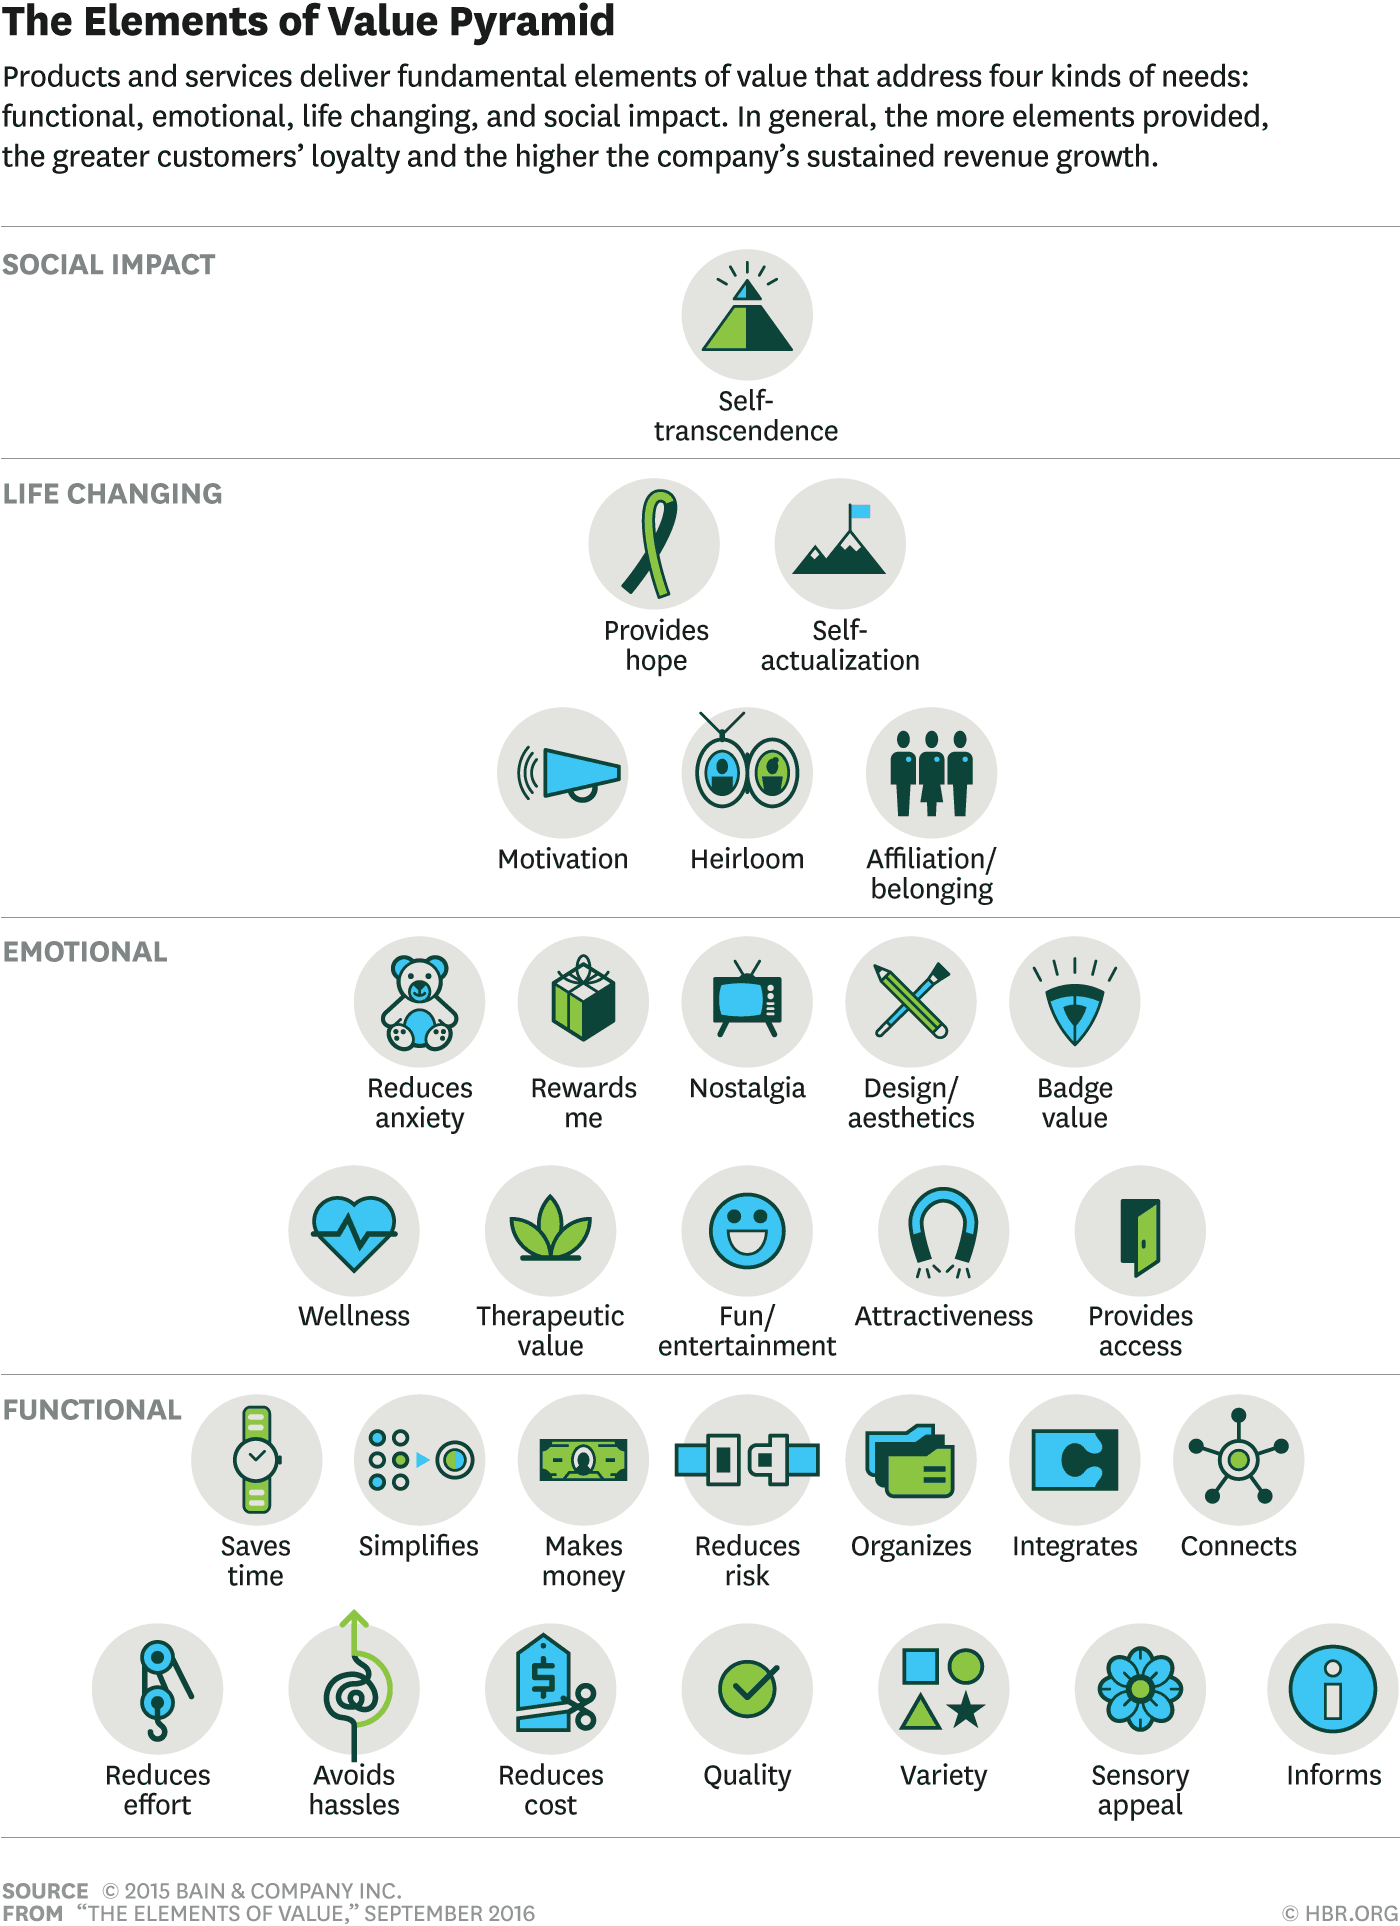
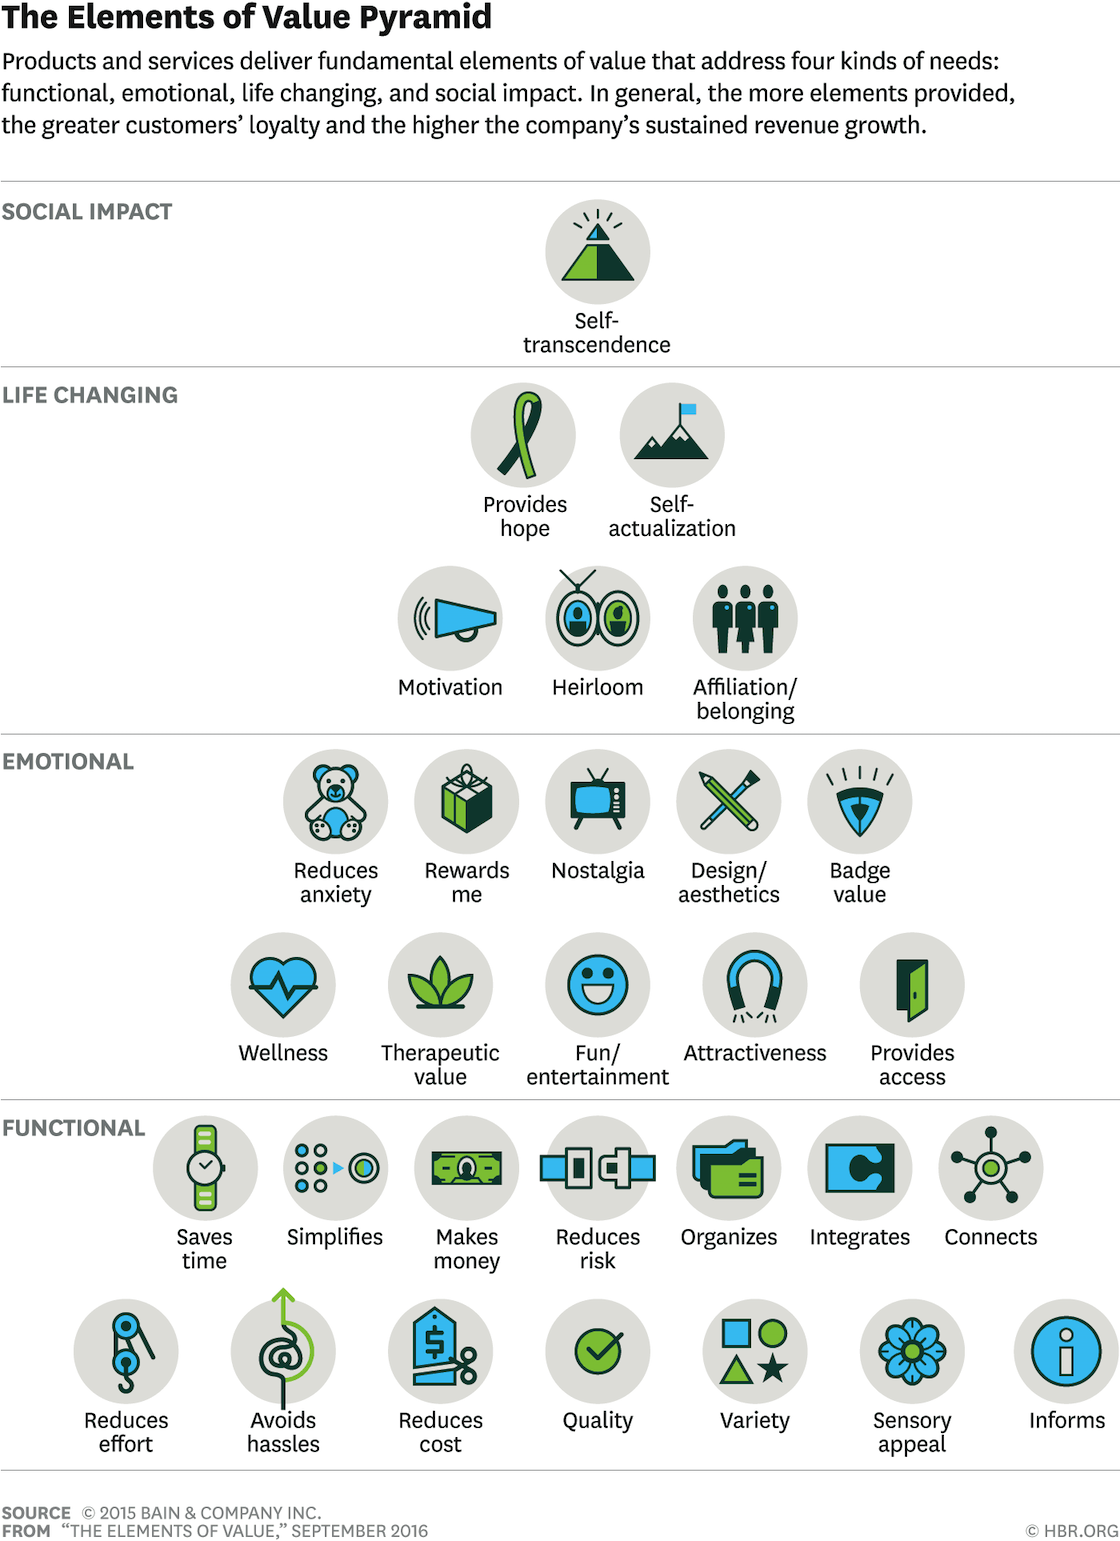
Updated pages

diff --git a/retention.md b/retention.md
@@ -6,56 +6,54 @@ permalink: /retention/
 
 ## 01. Frameworks
 
-**The Basics of Growth — User Acquisition, Engagement & Retention**
+**The Adjacent User Theory.**
 
-Podcast series (+ transcript): [Part 1](https://a16z.com/2018/08/08/growth-user-acquisition/) | [Part 2](https://a16z.com/2018/08/09/growth-engagement-retention/)
+[Article](https://andrewchen.co/the-adjacent-user-theory/)
 
-Comprehensive overview of the key concepts and dynamics to consider when crafting and executing a growth strategy.
+> When I joined Instagram in 2016, the product had over 400 million users, but the growth rate had slowed. We were growing linearly, not exponentially. [...] Over the next 3 years, the growth team and I discovered why Instagram had slowed, developed a methodology to diagnose our issues, and solved a series of problems that reignited growth and helped us get to over a billion users by the time I left.
 
-**Growth for Startups.**
+> Our success was anchored on what I now call *The Adjacent User Theory*. *The Adjacent Users* are aware of a product and possibly tried using the it, but are not able to successfully become an engaged user. This is typically because the current product positioning or experience has too many barriers to adoption for them.
 
-[Video](https://youtu.be/6lY9CYIY4pQ)
+**Hierarchy of Engagement, Expanded.**
 
-**Growth Hacking for Startups.**
+[Article](https://medium.com/@sarahtavel/the-hierarchy-of-engagement-expanded-648329d60804)
 
-[Slide deck](https://andrewchen.co/investor-metrics-deck/)
+**The Customer Centricity Playbook.**
 
-**Growth Loops are the New Funnels.**
+[Book](https://wsp.wharton.upenn.edu/book/customer-centricity-playbook/), [Excerpt](https://executiveeducation.wharton.upenn.edu/wp-content/uploads/2019/01/Customer-Centricity-Playbook-Excerpt-2019.pdf), [Video](https://youtu.be/0iLQCNYdNb4)
 
-[Article](https://www.reforge.com/blog/growth-loops)
+&nbsp;
+## 02. Metrics
 
-A year ago, I came across an article that introduces the concept of growth loops. Reading it shifted how I think about growth.
+**Startup Lab Workshop: Cohort analysis.**
 
-> The biggest thing we've learned is that the funnel framework is too micro of a view in order to answer “How does your product grow?” It helps explain a specific step within a Growth Loop, but misses the larger picture of the loop itself.
+[Video](https://youtu.be/NyhVdGmnh0I), [Slide deck](https://docs.google.com/presentation/d/1oWSKNZgtXCrc1dVEXhyzeJtX4AmBGQPGZi-u20BA5sA/edit#slide=id.p)
 
-**Phil Libin  shares his state machine that answers all growth questions.**
+**DAU/MAU is an Important Metric to Measure Engagement, but Here’s Where it Fails.**
 
-[Podcast](https://thisweekinstartups.com/e994-all-turtles-ceo-phil-libin-shares-his-state-machine-that-answers-all-growth-questions-future-of-early-stage-vc-w-pete-flint-nfx-rebecca-lynn-canvas-ventures-dave-samuel-freestyle-capital/)
+[Article](https://andrewchen.co/dau-mau-is-an-important-metric-but-heres-where-it-fails/)
 
-## 02. Operating Model
+**The Power User Curve: The Best Way to Understand Your Most Engaged Users.**
 
-**Growth Guide: How to Set Up, Staff and Scale a Growth Program.**
+[Article](https://a16z.com/2018/08/06/power-user-curve-l30-l7/)
 
-[Article](https://www.ycombinator.com/library/59-how-to-set-up-hire-and-scale-a-growth-strategy-and-team)
+> Power users drive some of the most successful companies — people who love their product, are highly engaged, and contribute a ton of value to the network. In ecommerce marketplaces it’s power sellers, in ridesharing platforms it’s power riders, and in social networks it’s influencers.
 
-**How to build a growth team – lessons from Uber, Hubspot, and Others.**
+> All companies want more power users, but you need to measure them before you can find (and retain) them. [...]
 
-[Article](https://andrewchen.co/how-to-build-a-growth-team/)
+> Since companies need a richer and more nuanced way to understand user engagement, we’re going to introduce what we’ll call the “Power User Curve” [...].
 
-**Growth Stacks.**
+**The Loyalty Economy.**
 
-[Article](https://news.greylock.com/growth-stacks-a-quantitative-look-into-the-tools-growth-teams-use-3829b22f8aa8)
+[Article series](https://hbr.org/2020/01/the-loyalty-economy)
 
-## 03. Case Studies
+&nbsp;
+## 03. **Data Points**
 
-**Why Figma Wins.**
+**Q: What do you consider GOOD and GREAT retention?**
 
-[Article](https://kwokchain.com/2020/06/19/why-figma-wins/)
+[Article](https://www.lennyrachitsky.com/p/what-is-good-retention-issue-29)
 
-Kevin Kwok applies the concept of loops to deconstruct how Figma successfully scaled.
+Casey Winters and Lenny Rachitsky published user retention and revenue retention benchmarks for consumer and SaaS businesses. 
 
-> Companies are a sequencing of loops. While it’s possible to stumble into an initial core loop that works, the companies that are successful in the long term are the ones that can repeatedly find the next loop.
-
-**How Pinterest Supercharged its Growth Team With Experiment Idea Review.**
-
-[Article](https://medium.com/pinterest-engineering/how-pinterest-supercharged-its-growth-team-with-experiment-idea-review-fd6571a02fb8)
+![Retention benchmarks](/assets/images/RetentionBenchmarks.png)

diff --git a/management.md b/management.md
@@ -24,6 +24,7 @@ In this lecture, Keith Rabois shares his perspective on how to be an effective
 
 [Article](https://rework.withgoogle.com/guides/managers-identify-what-makes-a-great-manager/steps/introduction/)
 
+&nbsp;
 ## 02. Communication
 
 **Ask Better Questions.**
@@ -50,6 +51,7 @@ This extract from [The Fifth Discipline Fieldbook](https://www.penguinrandomhou
 
 > Managers in Western corporations have received a lifetime of training in being forceful, articulate "advocates" and "problem solvers." They know how to present and argue strongly for their views. But as people rise in the organization, they are forced to deal with more complex and interdependent issues where no one individual "knows the answer, and where the only viable option is for groups of informed and committed individuals to think together to arrive at new insights. At this point, they need to learn to skillfully balance advocacy with inquiry
 
+&nbsp;
 ## 03. Managing Teams
 
 **Google Guide: Understand Team Effectiveness.**
@@ -60,12 +62,14 @@ This extract from [The Fifth Discipline Fieldbook](https://www.penguinrandomhou
 
 > Following the success of Google’s Project Oxygen research where the People Analytics team studied what makes a great manager, Google researchers applied a similar method to discover the secrets of effective teams at Google. Code-named Project Aristotle - a tribute to Aristotle’s quote, "the whole is greater than the sum of its parts" (as the Google researchers believed employees can do more working together than alone) - the goal was to answer the question: “What makes a team effective at Google?”
 
+&nbsp;
 ## 04. Managing People
 
 **“A Players” or “A Positions”?: The Strategic Logic of Workforce Management.**
 
 [Article](https://hbr.org/2005/12/a-players-or-a-positions-the-strategic-logic-of-workforce-management)
 
+&nbsp;
 ## 05. Driving Execution
 
 **The Lean Startup: How Today's Entrepreneurs Use Continuous Innovation to Create Radically Successful Businesses.**
@@ -80,6 +84,7 @@ This extract from [The Fifth Discipline Fieldbook](https://www.penguinrandomhou
 
 [Article](http://joelcalifa.com/work/digitalocean-design-leadership/)
 
+&nbsp;
 ## 06. Productivity
 
 **Maker’s Schedule, Manager’s Schedule.**
@@ -100,6 +105,7 @@ One of the best ways I’ve found to create time to think and work has been bloc
 
 [Article](https://m.signalvnoise.com/compounding-time/)
 
+&nbsp;
 ## 07. Transitioning to a new role
 
 **A Career Cold Start Algorithm.**

diff --git a/marketing.md b/marketing.md
@@ -14,6 +14,7 @@ permalink: /marketing/
 
 [Article](https://faculty.fuqua.duke.edu/~moorman/Marketing-Strategy-Seminar-2015/Session%203/Keller.pdf)
 
+&nbsp;
 ## 02. Value Proposition Design
 
 **Value Proposition Design: How to Create Products and Services Customers Want.**
@@ -30,7 +31,7 @@ permalink: /marketing/
 
 > The amount and nature of value in a particular product or service always lie in the eye of the beholder, of course. Yet universal building blocks of value do exist, creating opportunities for companies to improve their performance in current markets or break into new ones. A rigorous model of consumer value allows a company to come up with new combinations of value that its products and services could deliver. The right combinations, our analysis shows, pay off in stronger customer loyalty, greater consumer willingness to try a particular brand, and sustained revenue growth.
 
-![https://s3-us-west-2.amazonaws.com/secure.notion-static.com/9a36b378-18a4-4050-b6b4-b5c937c56c72/ElementsofValue.png](https://s3-us-west-2.amazonaws.com/secure.notion-static.com/9a36b378-18a4-4050-b6b4-b5c937c56c72/ElementsofValue.png)
+![Elements of Value](/assets/images/ElementsofValue.png)
 
 **Why Trust Matters.**
 
@@ -38,6 +39,7 @@ permalink: /marketing/
 
 > [...] we think trust can be understood and operationalized as a strategy, both in offensive and defensive modes. In offense, a startup identifies a trust gap left by a competitor and uses that as a wedge into a market. In defense, a startup makes intentional product and messaging decisions to uphold its promise to users and foster commitment and loyalty.
 
+&nbsp;
 ## 03. Marketing Automation
 
 **The Problems With Martech, and Why Martech is Actually for Engineers.**
@@ -68,6 +70,7 @@ Article series: [Part 1](https://netflixtechblog.com/engineering-to-improve-mark
 
 [E-Book](https://automatetheboringstuff.com/2e/chapter0/)
 
+&nbsp;
 ## 04. Search Engine Optimization
 
 **The SEO Framework That Helped Propel Pinterest To Over An Estimated 72M Users.**
@@ -78,6 +81,7 @@ Article series: [Part 1](https://netflixtechblog.com/engineering-to-improve-mark
 
 [Article](https://foundationinc.co/lab/canva-seo)
 
+&nbsp;
 ## 05. Consumer Behavior
 
 **Google: Study reveals the complexity of modern consumer paths to purchase and how brands can make inroads.**

diff --git a/analytics.md b/analytics.md
@@ -14,6 +14,7 @@ permalink: /analytics/
 
 [Article](https://a16z.com/2015/09/23/16-more-metrics/)
 
+&nbsp;
 ## 02. Marketing Experimentation
 
 **Google: Estimating Ad Effectiveness using Geo Experiments in a Time-Based Regression Framework.**
@@ -62,6 +63,7 @@ permalink: /analytics/
 
 [Article](https://www.growthengblog.com/blog/2018/4/15/scaling-new-growth-opportunities-series-seo-basics)
 
+&nbsp;
 ## 03. Marketing Attribution
 
 **Attribution Model Evaluation.**
@@ -88,6 +90,7 @@ permalink: /analytics/
 
 [Article](https://poseidon01.ssrn.com/delivery.php?ID=623110115067019004064023028108122092051040069008061028095107008090009067077122030071123059021013106005121064005096068097083024105043041005072083103011121003022114096056082040091084090072092103000123101080010026066112028072029025027121079027020117001087&EXT=pdf)
 
+&nbsp;
 ## 04. Product Experimentation
 
 **A/B Testing with Fat Tails.**
@@ -104,6 +107,7 @@ permalink: /analytics/
 
 [Article](https://booking.ai/increasing-sensitivity-of-experiments-with-the-rank-transformation-draft-c01aff70b255)
 
+&nbsp;
 ## 05. Survey-Based Consumer/Customer Research
 
 **A Practitioner’s Guide to Net Promoter Score.**
@@ -118,6 +122,7 @@ permalink: /analytics/
 
 [Book chapter](https://link.springer.com/chapter/10.1007/978-3-030-15636-7_8)
 
+&nbsp;
 ## 06. Qualitative User Research
 
 **GV’s Guide to UX Research for Startups.**

diff --git a/marketplaces.md b/marketplaces.md
@@ -42,12 +42,14 @@ Great conversation between Patrick OShaughnessy and Ben Thompson on platform
 
 [Article](https://a16z.com/2018/11/27/services-marketplaces-service-economy-evolution-whats-next/)
 
+&nbsp;
 ## 02. Operating Model
 
 **Centralization vs. Decentralization in Marketplaces and Scaling Companies.**
 
 [Article](https://caseyaccidental.com/centralization-decentralization-marketplaces-and-scaling-companies/)
 
+&nbsp;
 ## 03. Tactics
 
 **28 ways to grow supply in a marketplace.**
@@ -58,6 +60,7 @@ Great conversation between Patrick OShaughnessy and Ben Thompson on platform
 
 [Article](https://caseyaccidental.com/low-frequency-marketplaces/)
 
+&nbsp;
 ## 04. Metrics
 
 **All Markets Are Not Created Equal: 10 Factors To Consider When Evaluating Digital Marketplaces.**
@@ -80,6 +83,7 @@ Great conversation between Patrick OShaughnessy and Ben Thompson on platform
 
 [Article](https://techcrunch.com/2017/07/11/marketplace-liquidity/)
 
+&nbsp;
 ## 05. Data Points
 
 **The a16z Marketplace 100.**

diff --git a/growth.md b/growth.md
@@ -32,6 +32,7 @@ A year ago, I came across an article that introduces the concept of growth loops
 
 [Podcast](https://thisweekinstartups.com/e994-all-turtles-ceo-phil-libin-shares-his-state-machine-that-answers-all-growth-questions-future-of-early-stage-vc-w-pete-flint-nfx-rebecca-lynn-canvas-ventures-dave-samuel-freestyle-capital/)
 
+&nbsp;
 ## 02. Operating Model
 
 **Growth Guide: How to Set Up, Staff and Scale a Growth Program.**
@@ -46,6 +47,7 @@ A year ago, I came across an article that introduces the concept of growth loops
 
 [Article](https://news.greylock.com/growth-stacks-a-quantitative-look-into-the-tools-growth-teams-use-3829b22f8aa8)
 
+&nbsp;
 ## 03. Case Studies
 
 **Why Figma Wins.**

diff --git a/about.md b/about.md
@@ -4,7 +4,7 @@ title: About me
 permalink: /about/
 ---
 
-![https://s3-us-west-2.amazonaws.com/secure.notion-static.com/01c8b380-68c8-42dc-b0a7-65298a58243a/_71A3620-Edit.jpeg](https://s3-us-west-2.amazonaws.com/secure.notion-static.com/01c8b380-68c8-42dc-b0a7-65298a58243a/_71A3620-Edit.jpeg)
+![Photo](/assets/images/Photo.jpeg)
 
 👋 Hi. I'm Paulo Cunha. I live in New York and work at [SeatGeek](https://seatgeek.com)
 

diff --git a/saas.md b/saas.md
@@ -18,6 +18,7 @@ permalink: /saas/
 
 [Article](https://a16z.com/2020/08/04/fintech-scales-vertical-saas/)
 
+&nbsp;
 ## 02. Metrics
 
 **Optimizing the SaaS Funnel from Top to Bottom.**
